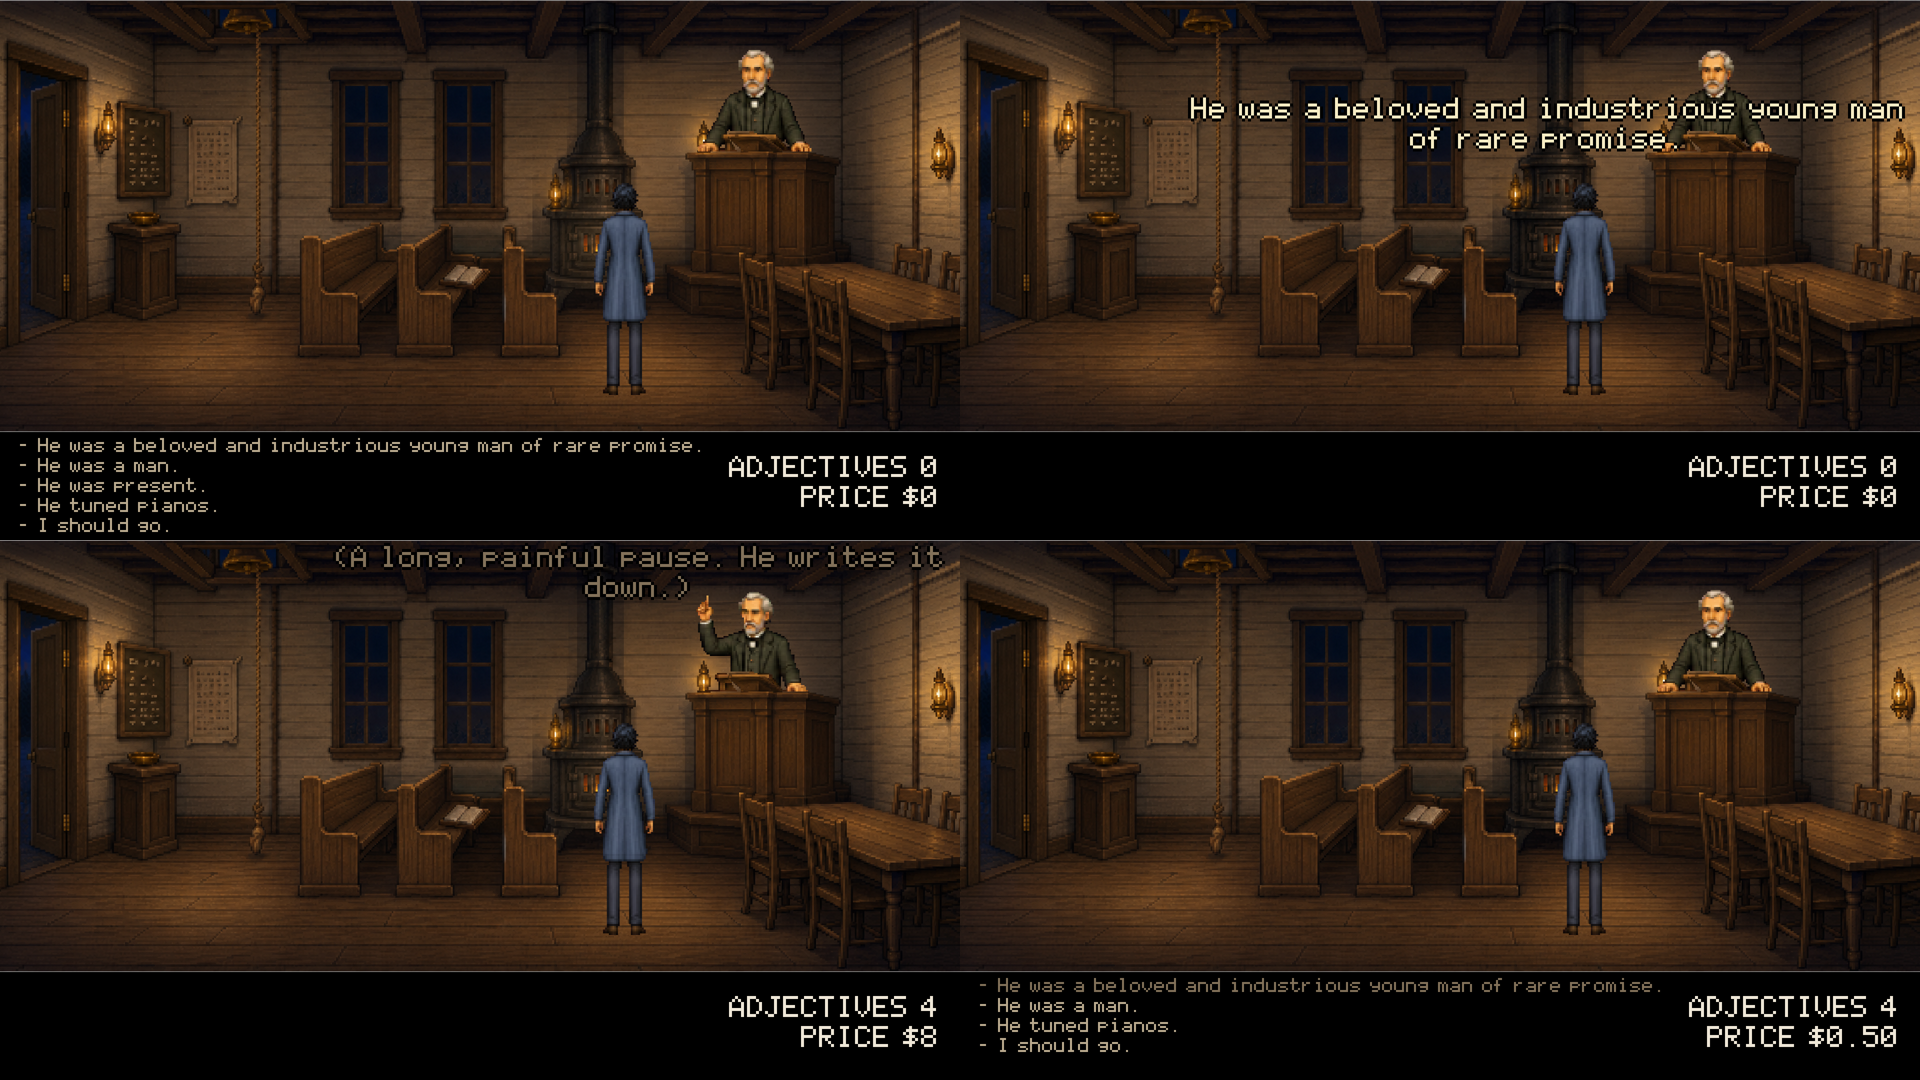
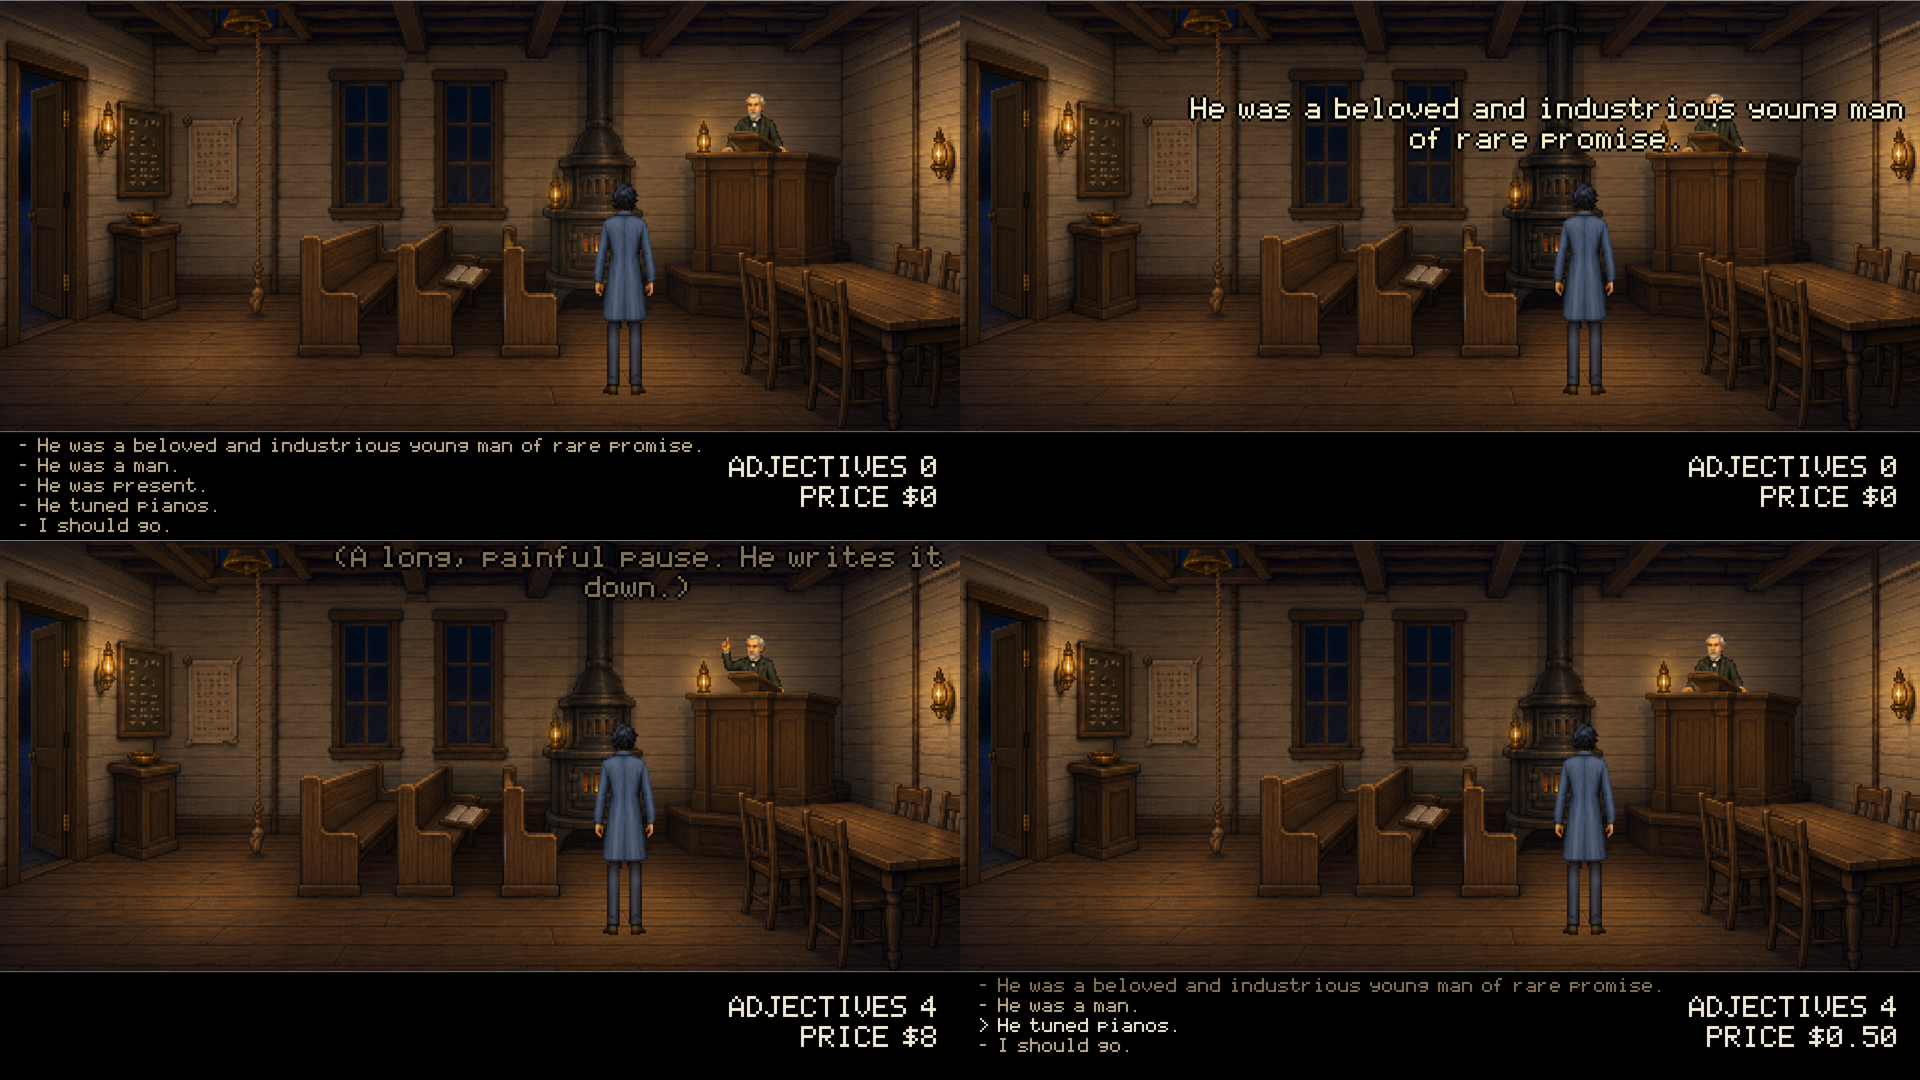
Sowerby at the pulpit drawn at a man's size for where he stands
Tyler, 2026-11-08: "he looks enormous behind the podium". His church
sheet was cut 1:1 at 203 px crown-to-pulpit, the waist-up of a man of
nearly 500; the room's curve carried back to the pulpit's platform
(depthY 585) makes a man 285 there. Resampled to a man's waist-up for
that depth (tools/art/room17-sowerby-scale.py), the plate's desk re-cleared,
snapped to the cast grid at that depth (one-level reads depthY).

Lesson: tests/scale.test.ts now holds every behind-counter figure to at
most 0.45 of a man at its own depth; it fails on the old sheet (0.71).

Claude-Session: https://claude.ai/code/session_01FXbCurjq3gWmZKUYv89gwi

diff --git a/tests/scale.test.ts b/tests/scale.test.ts
@@ -6,6 +6,8 @@ import { fileURLToPath } from 'node:url';
 
 import { WalkBoxes, heightIn } from '../engine/core/WalkBoxes.ts';
 import type { AmbientFile, RoomFile, WalkBox } from '../engine/core/types.ts';
+// @ts-expect-error -- a plain .mjs module with no declarations; it reads 8-bit RGBA PNGs.
+import { readPng } from '../tools/lib/png.mjs';
 
 /**
  * SCALE IS CHECKED, NOT EYEBALLED. Tyler, 2026-10-31, after Deke Vessel stood
@@ -76,4 +78,41 @@ for (const path of manifest.ambient) {
       `${npc.id} is drawn ${Math.round(drawn)} tall at ${npc.x},${npc.y}, where the room's man is ${curve} `
       + `(${ratio.toFixed(2)}x) -- recut him at the curve's height or rule an exception`);
   });
+}
+
+// A FIGURE BEHIND A COUNTER IS A MAN'S WAIST-UP FOR WHERE HE STANDS (Tyler, 2026-11-08, of the
+// church: "he looks enormous behind the podium"). The standing check above never saw him: he is
+// cut at the pulpit's top and drawn 1:1, and nothing measured him. From crown to the cut he was 203
+// px, the waist-up of a man of nearly 500, at the back of a room whose man is 285 there. A
+// behind-counter figure's crown-to-cut is at most WAIST_UP of a man at its depth: its own `depthY`
+// (the room's curve carried back to that floor), else the stand where it is talked to.
+const WAIST_UP = 0.45;
+const unclamped = (room: RoomFile, y: number): number => {
+  const curve = (room.walkBoxes?.[0] as WalkBox | undefined)?.scaleMode as { kind: string; farY: number; farHeight: number; nearY: number; nearHeight: number } | undefined;
+  return curve?.kind === 'curve' ? curve.farHeight + (y - curve.farY) * (curve.nearHeight - curve.farHeight) / (curve.nearY - curve.farY) : 0;
+};
+for (const path of manifest.ambient) {
+  const npc = read(path) as AmbientFile;
+  const places = [{ room: npc.room, at: npc as Partial<AmbientFile> }]
+    .concat(Object.entries(npc.placements ?? {}).map(([room, at]) => ({ room, at: at as Partial<AmbientFile> })));
+  for (const { room: roomId, at } of places) {
+    const posture = at.posture ?? npc.posture;
+    const sprite = (at.sprite ?? npc.sprite) as (AmbientFile['sprite'] & { depthY?: number }) | undefined;
+    const room = rooms.get(roomId);
+    const stand = at.walkTo ?? npc.walkTo;
+    if (posture !== 'behind-counter' || !sprite?.frames?.length || !shipping(room) || !room?.walkBoxes) continue;
+    if (sprite.figureHeight || (sprite.depthY === undefined && !stand)) continue;
+    test(`${npc.id} in ${roomId}: behind the counter, a man's waist-up for where it stands`, () => {
+      const man = sprite.depthY !== undefined ? unclamped(room, sprite.depthY) : curveAt(room, stand!.x, stand!.y);
+      const png = readPng(readFileSync(resolve(ROOT, sprite.sheet)));
+      const [fx, fy, fw, fh] = sprite.frames[0]!;
+      let top = -1; let bottom = -1;
+      for (let y = 0; y < fh; y += 1) for (let x = 0; x < fw; x += 1) {
+        if (png.pixels[((fy + y) * png.width + fx + x) * 4 + 3]! > 128) { if (top < 0) top = y; bottom = y; }
+      }
+      const drawn = bottom - top + 1;
+      assert.ok(drawn <= WAIST_UP * man, `${npc.id} in ${roomId} is ${drawn} px from crown to the counter, where a man is ${Math.round(man)} `
+        + `(${(drawn / man).toFixed(2)} of him); a waist-up is at most ${WAIST_UP}`);
+    });
+  }
 }

diff --git a/tools/art/room17-sowerby-scale.py b/tools/art/room17-sowerby-scale.py
@@ -1,0 +1,50 @@
+"""Sowerby at the church pulpit, drawn at a man's size for where he stands (Tyler, 2026-11-08, of the
+counter render: "he looks enormous behind the podium").
+
+His sheet was cut 1:1 from the cast master at the height the pulpit's top row gave it, and nothing measured
+it: from crown to the pulpit's top he was 203 px, the waist-up of a man of nearly 500, larger than Thad at the
+front of the room. He stands on the pulpit's platform at the back, where the room's own depth curve, carried
+back to that floor (`depthY`), makes a man about 285 px. A man's crown-to-waist is about 0.41 of him, so each
+frame is resampled to that height (premultiplied BOX, doc 38 R4), bottom-centred where it was, and the sheet
+repacked. Then run tools/art/room17-sowerby-desk.py (the desk is the plate's: re-clear it at the new size) and
+tools/art/one-level.py --only room-17-sowerby-master. tests/scale.test.ts holds the size.
+
+Usage: room17-sowerby-scale.py    (rewrites the sheet and the church placement's frames; prints them)
+"""
+import json, os
+import numpy as np
+from PIL import Image
+
+ROOT = os.path.dirname(os.path.dirname(os.path.dirname(os.path.abspath(__file__))))
+WAIST_UP = 0.41
+path = os.path.join(ROOT, 'content/ambient/sowerby.json')
+npc = json.load(open(path))
+place = npc['placements']['church']; sp = place['sprite']
+room = [json.load(open(os.path.join(ROOT, p))) for p in json.load(open(os.path.join(ROOT, 'content/manifest.json')))['rooms']]
+room = [r for r in room if r['id'] == 'church'][0]
+c = room['walkBoxes'][0]['scaleMode']
+man = c['farHeight'] + (sp['depthY'] - c['farY']) * (c['nearHeight'] - c['farHeight']) / (c['nearY'] - c['farY'])
+sheet = np.asarray(Image.open(os.path.join(ROOT, sp['sheet'])).convert('RGBA'))
+rest = sheet[sp['frames'][0][1]:sp['frames'][0][1] + sp['frames'][0][3], sp['frames'][0][0]:sp['frames'][0][0] + sp['frames'][0][2]]
+rows = np.where((rest[..., 3] > 128).any(1))[0]
+scale = WAIST_UP * man / (rows[-1] - rows[0] + 1)
+cells = []
+for (fx, fy, w, h) in sp['frames']:
+    cell = sheet[fy:fy + h, fx:fx + w].astype(np.float32)
+    pre = cell.copy(); pre[..., :3] *= pre[..., 3:4] / 255
+    nw, nh = max(1, round(w * scale)), max(1, round(h * scale))
+    small = np.stack([np.asarray(Image.fromarray(pre[..., k], 'F').resize((nw, nh), Image.BOX)) for k in range(4)], -1)
+    a = small[..., 3]
+    rgb = np.where(a[..., None] > 1, small[..., :3] * 255 / np.maximum(a[..., None], 1), 0)
+    cells.append(np.dstack([np.clip(rgb, 0, 255), np.where(a >= 128, 255, 0)]).astype(np.uint8))
+W = max(c.shape[1] for c in cells); H = max(c.shape[0] for c in cells)
+out = np.zeros((H + 4, (W + 2) * len(cells) + 2, 4), np.uint8)
+frames = []
+for i, cell in enumerate(cells):
+    x = 2 + i * (W + 2); y = 2 + (H - cell.shape[0])
+    out[y:y + cell.shape[0], x:x + cell.shape[1]] = cell
+    frames.append([x, 2, W, H])
+Image.fromarray(out).save(os.path.join(ROOT, sp['sheet']))
+sp['frames'] = frames
+json.dump(npc, open(path, 'w'), indent=1, ensure_ascii=False); open(path, 'a').write('\n')
+print(json.dumps({'man': round(man), 'scale': round(scale, 3), 'frames': frames}))

diff --git a/tools/art/one-level.py b/tools/art/one-level.py
@@ -103,6 +103,12 @@ import('{ROOT}/engine/core/WalkBoxes.ts').then(({{WalkBoxes, heightIn}}) => {{
     return float(out or 0)
 
 
+def man_at_depth(room, y):
+    r = [json.load(open(os.path.join(ROOT, p))) for p in json.load(open(os.path.join(ROOT, 'content/manifest.json')))['rooms']]
+    c = [one for one in r if one['id'] == room][0]['walkBoxes'][0]['scaleMode']
+    return c['farHeight'] + (y - c['farY']) * (c['nearHeight'] - c['farHeight']) / (c['nearY'] - c['farY'])
+
+
 jobs = {}      # (sheet, tuple(frame)) -> block
 cut = set()    # (sheet, tuple(frame)) of figures cut at a counter's edge
 manifest = json.load(open(os.path.join(ROOT, 'content/manifest.json')))
@@ -120,7 +126,9 @@ for p in manifest['ambient']:
         # stature, so a man is figureHeight / stature sheet pixels (an animal's stature is small).
         man = (sp['figureHeight'] / (sp.get('stature') or 1.0)) if sp.get('figureHeight') else None
         if not man:
-            m = man_at(room, x, y)
+            # A figure behind a counter at the back of a room says how deep it stands (`depthY`): a man
+            # there is the room's depth curve carried back to that floor, not clamped to the walk band.
+            m = man_at_depth(room, sp['depthY']) if 'depthY' in sp else man_at(room, x, y)
             if m <= 0: continue
             man = m / (1.0)
         b = man / N
